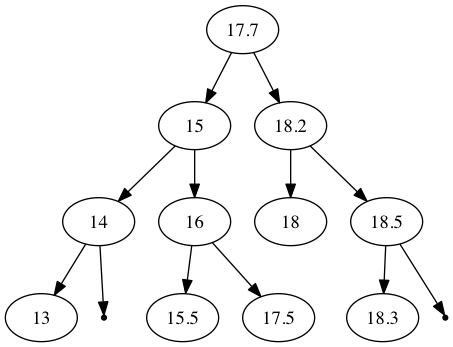
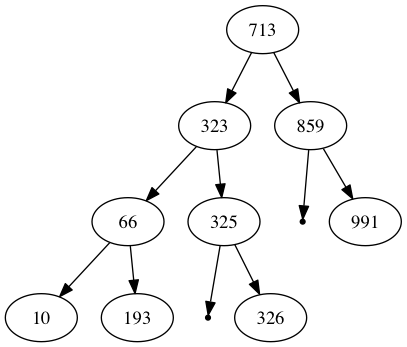
Wrote a lot of tests for balance.  Balance is onewhundred percent working on insert.  Need to integrate deletion.

diff --git a/src/bst.py b/src/bst.py
@@ -99,7 +99,7 @@ class Node(object):
 
     def _pull_right(self):
         """Pull the node balance to load left side strong."""
-        c = self.parent, self, self.right
+        c = self.right
         if c.right is None:
             c.value, c.left.value = c.left.value, c.value
             c.right, c.left = c.left, None
@@ -118,11 +118,19 @@ class Node(object):
                 b.left, c.right = c.right, b
         else:
             try:
-                c.parent, b.parent, a.left = a, c, c
-                b.left, c.right.parent, c.right = c.right, b, b
+                if a.value > b.value:
+                    c.parent, b.parent, a.left = a, c, c
+                    b.left, c.right.parent, c.right = c.right, b, b
+                else:
+                    c.parent, b.parent, a.right = a, c, c
+                    b.left, c.right.parent, c.right = c.right, b, b
             except AttributeError:
-                c.parent, b.parent, a.left = a, c, c
-                b.left, c.right = c.right, b
+                if a.value > b.value:
+                    c.parent, b.parent, a.left = a, c, c
+                    b.left, c.right = c.right, b
+                else:
+                    c.parent, b.parent, a.right = a, c, c
+                    b.left, c.right = c.right, b
 
     def _rotate_left(self):
         """Rotate self around left to rebalance."""
@@ -136,11 +144,19 @@ class Node(object):
                 b.right, c.left = c.left, b
         else:
             try:
-                c.parent, b.parent, a.right = a, c, c
-                b.right, c.left.parent, c.left = c.left, b, b
+                if a.value < b.value:
+                    c.parent, b.parent, a.right = a, c, c
+                    b.right, c.left.parent, c.left = c.left, b, b
+                else:
+                    c.parent, b.parent, a.left = a, c, c
+                    b.right, c.left.parent, c.left = c.left, b, b
             except AttributeError:
-                c.parent, b.parent, a.right = a, c, c
-                b.right, c.left = c.left, b
+                if a.value < b.value:
+                    c.parent, b.parent, a.right = a, c, c
+                    b.right, c.left = c.left, b
+                else:
+                    c.parent, b.parent, a.left = a, c, c
+                    b.right, c.left = c.left, b
 
     def _get_dot(self):
         """Recursively prepare a dot graph entry for this node."""
@@ -174,14 +190,15 @@ class BST(object):
         """Initialize BST class."""
         self._reset()
         if isinstance(values, list):
-            for ii in values:
-                self.insert(ii)
+            for value in values:
+                self.insert(value)
         else:
             raise TypeError("Please package your item into a list!")
 
     def insert(self, value):
         """Insert a value into the binary heap."""
-        if type(value) == float or type(value) == int:
+        try:
+            float(value)
             if self.contains(value):
                 pass
             else:
@@ -205,7 +222,7 @@ class BST(object):
                         old_cursor.right = new_node
                     self.top = old_cursor.balance_tree()
                 self.length += 1
-        else:
+        except (ValueError, AttributeError):
             raise TypeError("This tree only accepts integers or floats.")
 
     def contains(self, value):
@@ -301,13 +318,18 @@ class BST(object):
                 delete_node.parent.left = delete_node.right
                 delete_node.right.parent = delete_node.parent
 
-    def _two_children(self, delete_node):
+    def _two_children(self, del_node):
         """Delete a node with two children."""
-        cursor = delete_node.right
+        cursor = del_node.right
         while cursor.left is not None:
             cursor = cursor.left
-        delete_node.value = cursor.value
-        if cursor.right:
+        del_node.value = cursor.value
+        if del_node.right and del_node.left:
+            if del_node.right.depth() == 1:
+                del_node.right = del_node.right.right
+            else:
+                return del_node.value
+        elif del_node.right:
             self._one_child(cursor, 'right')
         else:
             self._no_children(cursor)
@@ -320,7 +342,15 @@ class BST(object):
                 if val == cursor.value:
                     self.length -= 1
                     if cursor.left and cursor.right:
-                        self._two_children(cursor)
+                        again = self._two_children(cursor)
+                        if again is not None:
+                            cursor = cursor.right
+                            while cursor.value != again:
+                                cursor = cursor.left
+                            try:
+                                self._one_child(cursor, 'right')
+                            except AttributeError:
+                                self._no_children(cursor)
                     elif cursor.left:
                         self._one_child(cursor, 'left')
                     elif cursor.right:
@@ -351,20 +381,20 @@ class BST(object):
 
 
 if __name__ == '__main__':
-    b = BST([17.7])
-    b.insert(17.5)
-    b.insert(18.2)
-    b.insert(18)
-    b.insert(18.5)
-    b.insert(17.5)
-    b.insert(17.7)
-    b.insert(16)
-    b.insert(15.5)
-    b.insert(15)
-    b.insert(14)
-    b.insert(13)
-    b.insert(18.2)
-    b.insert(18.3)
+    list_ = [991, 482, 206, 326, 66, 859, 193, 10, 323]
+# [991, 482, 206, 326, 66, 859, 193, 10, 465, 712, 50, 808, 861, 792, 234, 179, 764, 763, 827, 885, 386, 834, 85, 169, 907, 717, 284, 439, 453, 540, 460, 317, 919]
+    b = BST()
+    for value in list_:
+        b.insert(value)
+    # import pdb; pdb.set_trace()
+    b.insert(712)
+    b.insert(713)
+    b.insert(325)
+    # import pdb; pdb.set_trace()
+    b.delete(206)
+    b.delete(482)
+    b.delete(712)
+    # b.delete(713)
     # b.insert(17.9)  # this breaks us.  Find the weirdness
     # b = BST([17.7])
     # b.insert(17.5)

diff --git a/src/test_bst.py b/src/test_bst.py
@@ -1,6 +1,31 @@
 # -*- coding: utf-8 -*-
 """Test Binary Search Tree Module."""
 import pytest
+import random
+
+
+RANDOM_LIST = [random.sample(range(1000), random.randrange(2, 100)) for i in range(500)]
+
+EDGE_CASES = [
+    [],
+    [20],
+    [9, 20],
+    [20, 9],
+    [0, 1, 2],
+    [2, 1, 0],
+    [2, 0, 1],
+    [0, 2, 1],
+    [1, 2, 0],
+    [1, 0, 2]
+]
+
+
+@pytest.fixture(scope='function', params=EDGE_CASES + RANDOM_LIST)
+def trees(request):
+    """Test edge cases for balancing."""
+    from bst import BST
+    b = BST(request.param)
+    return b
 
 
 @pytest.fixture(scope='function')
@@ -32,39 +57,9 @@ def traversals():
     return b
 
 
-def test_node_one_balance_tree():
-    """Test balance function of one will not be in while loop forever."""
-    from bst import Node
-    a = Node(1)
-    assert a.balance_tree() is None
-
-
-def test_tree_one_balance_tree():
-    """Test balance function of one in insert function proerply integrated."""
-    from bst import BST
-    b = BST([20])
-    assert b.depth() == 1
-    assert b.balance() == 0
-
-
-def test_balance_tree_two_left():
-    """Test balance tree not caught in while forever and returns None."""
-    from bst import Node
-    a = Node(20)
-    a.left = Node(16)
-    assert a.depth() == 2
-    assert a.balance() == 1
-    assert a.balance_tree() is None
-
-
-def test_balance_tree_two_right():
-    """Test balance tree not caught in while forever and returns None."""
-    from bst import Node
-    a = Node(20)
-    a.right = Node(23)
-    assert a.depth() == 2
-    assert a.balance() == -1
-    assert a.balance_tree() is None
+def test_tree_one_balance_tree(trees):
+    """Test tree balance is properly operating over many insertions."""
+    assert -2 < trees.balance() < 2
 
 
 def test_no_string():
@@ -75,29 +70,34 @@ def test_no_string():
         b.insert("value")
 
 
-def test_insert_top(big_left):
+def test_insert(trees):
     """Test that insert works."""
-    assert big_left.top.value == 20
+    breath_ord = trees.breath_first()
+    ord_list = []
+    for val in breath_ord:
+        ord_list.append(val)
+    try:
+        assert trees.top.value == ord_list[0]
+        assert trees.size() == len(ord_list)
+    except AttributeError:
+        pass
 
 
-def test_insert_left(big_left):
-    """Test that insert smaller value goes left."""
-    assert big_left.top.left.value == 16
-
-
-def test_insert_right(big_left):
-    """Test that insert right works correctly."""
-    assert big_left.top.left.right.value == 17
-
-
-def test_contains(big_left):
+def test_contains(trees):
     """Test contains function."""
-    assert big_left.contains(20) is True
+    breath_ord = trees.breath_first()
+    ord_list = []
+    for val in breath_ord:
+        ord_list.append(val)
+    try:
+        assert trees.contains(random.choice(ord_list)) is True
+    except IndexError:
+        pass
 
 
-def test_not_contained(big_left):
+def test_not_contained(trees):
     """Test contains returns False when item not in list."""
-    assert big_left.contains(89) is False
+    assert trees.contains(-89) is False
 
 
 def test_size_empty():
@@ -115,9 +115,16 @@ def test_size_one():
     assert d.size() == 1
 
 
-def test_size_many(big_left):
+def test_size_many(trees):
     """Test many and similar insert size."""
-    assert big_left.size() == 5
+    breath_ord = trees.breath_first()
+    ord_list = []
+    for val in breath_ord:
+        ord_list.append(val)
+    try:
+        assert trees.size() == len(ord_list)
+    except IndexError:
+        pass
 
 
 def test_depth_none():
@@ -148,18 +155,20 @@ def test_balance_one():
     assert a.balance() == 0
 
 
-def test_balance_left(big_left):
+def test_balance_left():
     """Test that a left side is larger and returns a positive int."""
-    assert big_left.balance() > 0
+    from bst import Node
+    a = Node(20)
+    a.left = Node(18)
+    assert a.balance() == 1
 
 
 def test_balance_right():
     """Test that a right side is larger and returns a negative int."""
-    from bst import BST
-    b = BST([20])
-    b.insert(23)
-    b.insert(22)
-    assert b.balance() < 0
+    from bst import Node
+    a = Node(20)
+    a.right = Node(23)
+    assert a.balance() == -1
 
 
 def test_depth_many():
